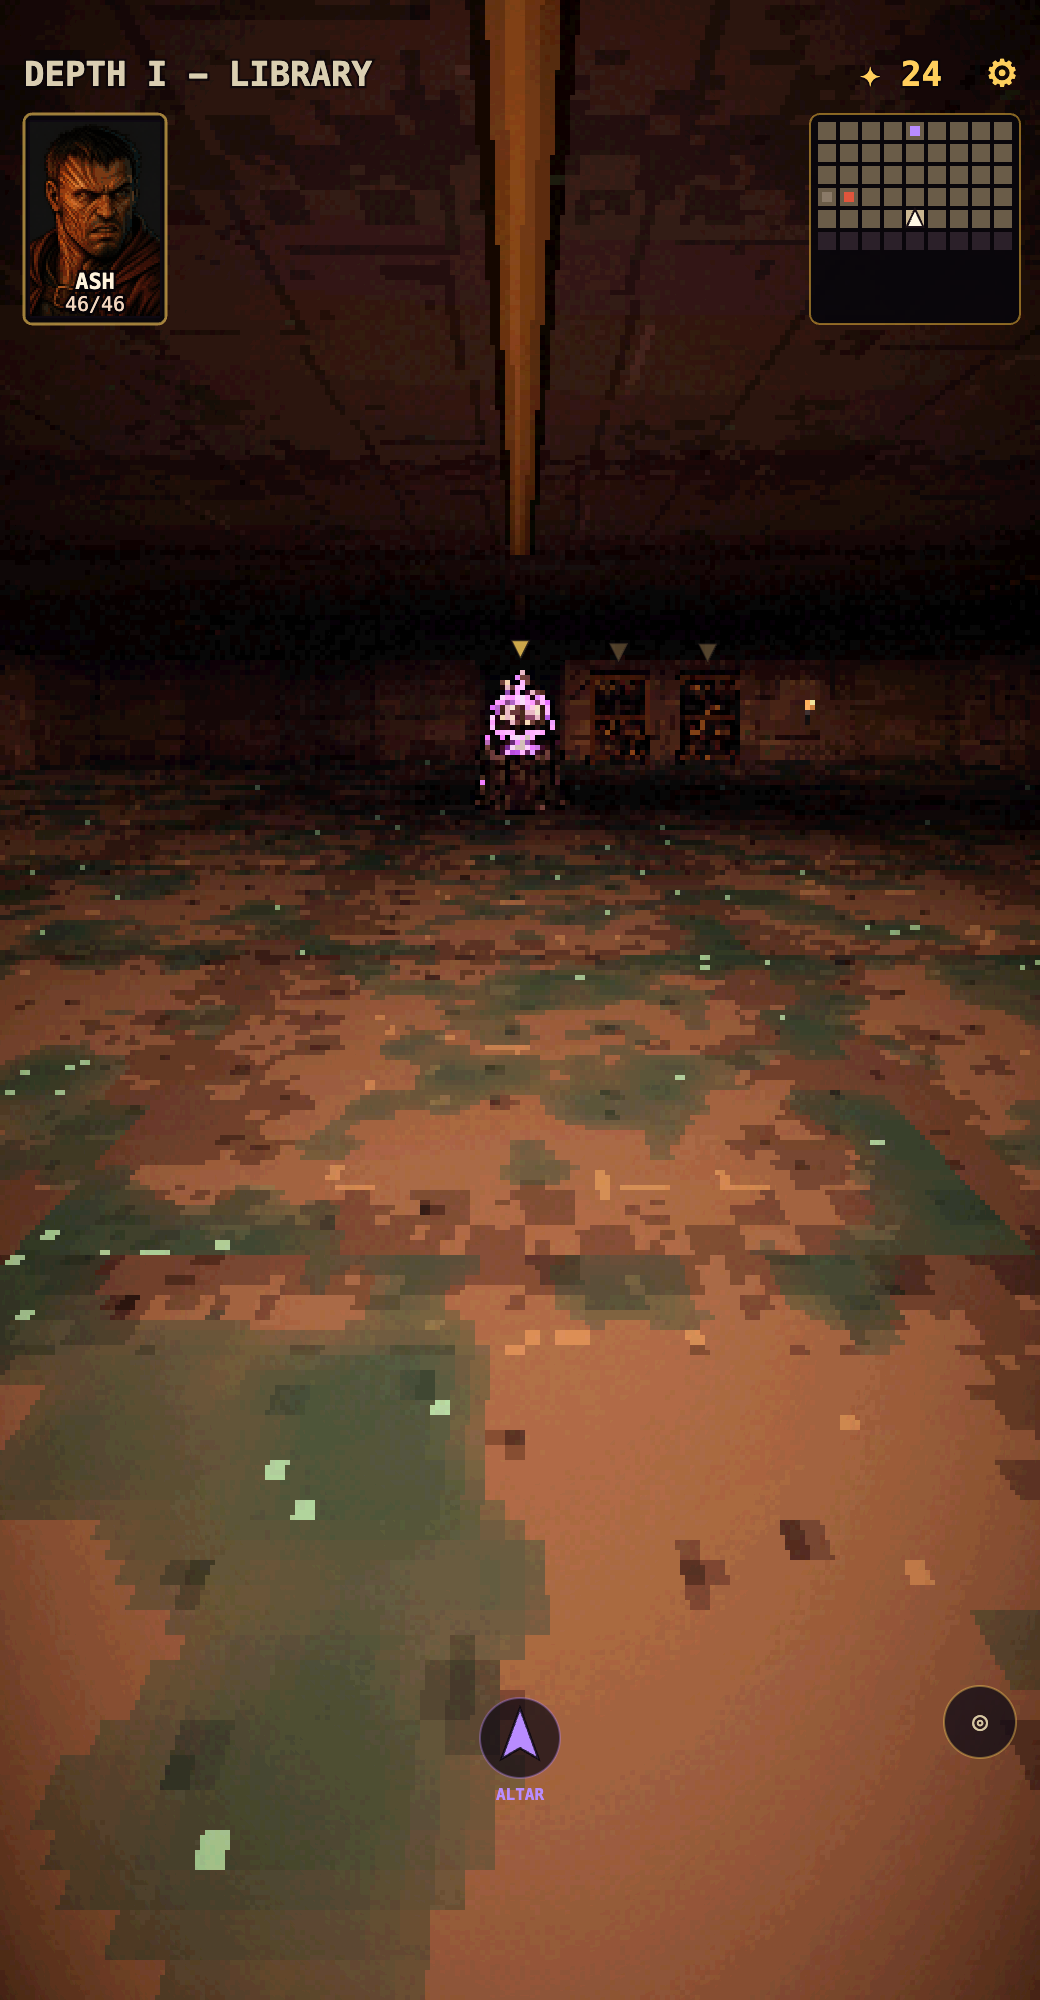
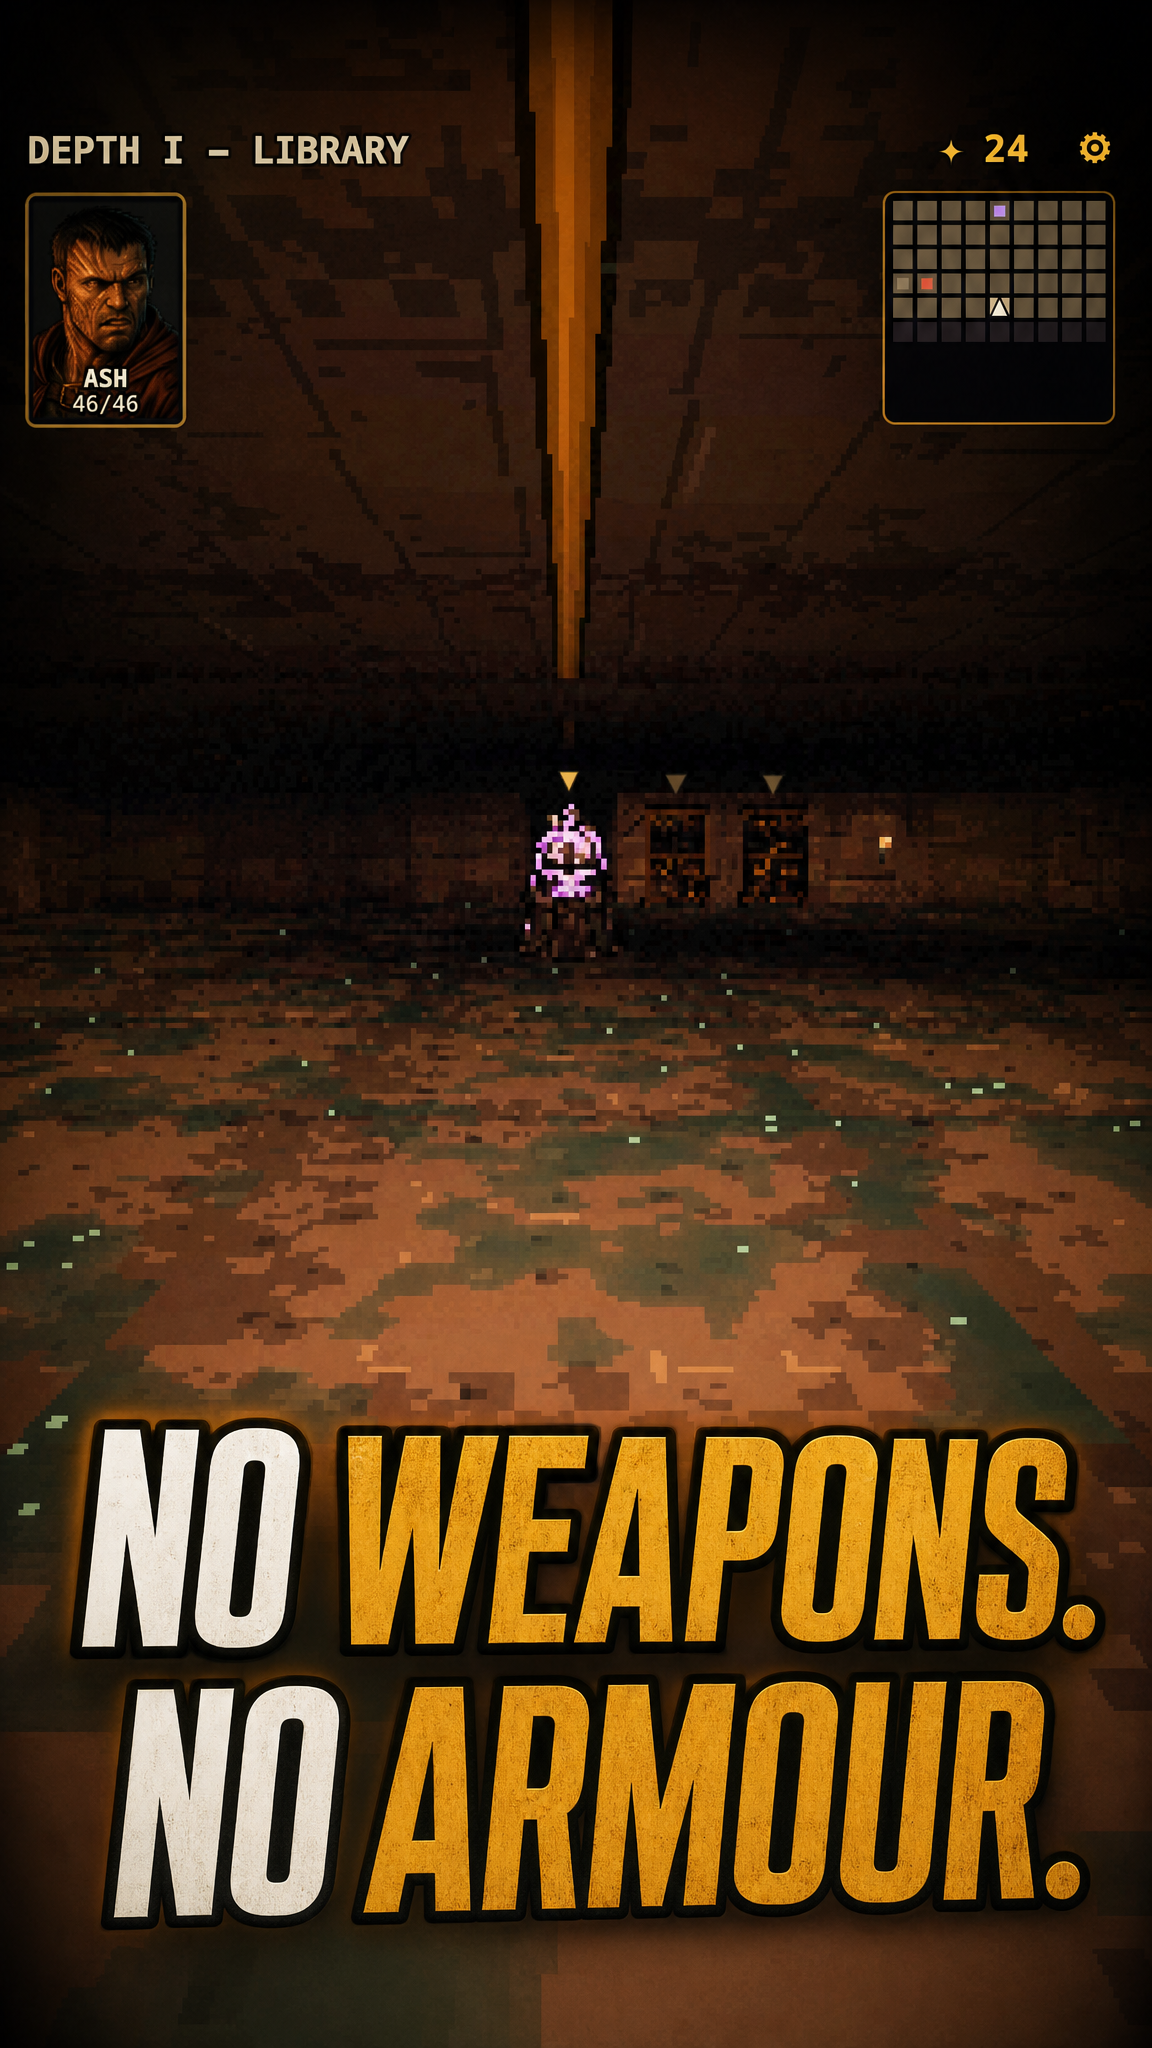
feat: the store shots carry their slogans, and the raws stay behind them
The five captures went to Play undressed — step 3 of the store-assets skill
was never run, so the listing was gameplay with no headline on it. Each shot
now carries the line it was chosen to sell, and the raw capture it came from
sits in shots/raw so a re-dress never needs a re-shoot.

diff --git a/store/PLAY-LISTING.md b/store/PLAY-LISTING.md
@@ -90,7 +90,7 @@ The first release of Unbound Descent. Tear pages out of your grimoire, fuse them
 | App icon | 512×512, 32-bit PNG, ≤1 MB | ✅ [public/icons/icon-512.png](../public/icons/icon-512.png) |
 | Logo / splash | square | ✅ [store/logo.png](logo.png), formatted to `assets/splash.png` by `tools/genlogo.mjs` |
 | Feature graphic | 1024×500 PNG/JPEG | ✅ [store/feature-graphic.png](feature-graphic.png) — generated, centre band of `art/_work/raw/feature-a.png` |
-| Phone screenshots (2–8) | PNG/JPEG, 320–3840px/side, ratio no wider than 2:1 | ✅ 5 × 1040×2000 PNG (1:1.92) in [store/shots/](shots/) |
+| Phone screenshots (2–8) | PNG/JPEG, 320–3840px/side, ratio no wider than 2:1 | ✅ 5 × 1152×2048 PNG (9:16), dressed with slogans via Scenario, in [store/shots/](shots/); undressed captures kept in [store/shots/raw/](shots/raw/) |
 
 Play rejects WebP; these are PNG.
 
